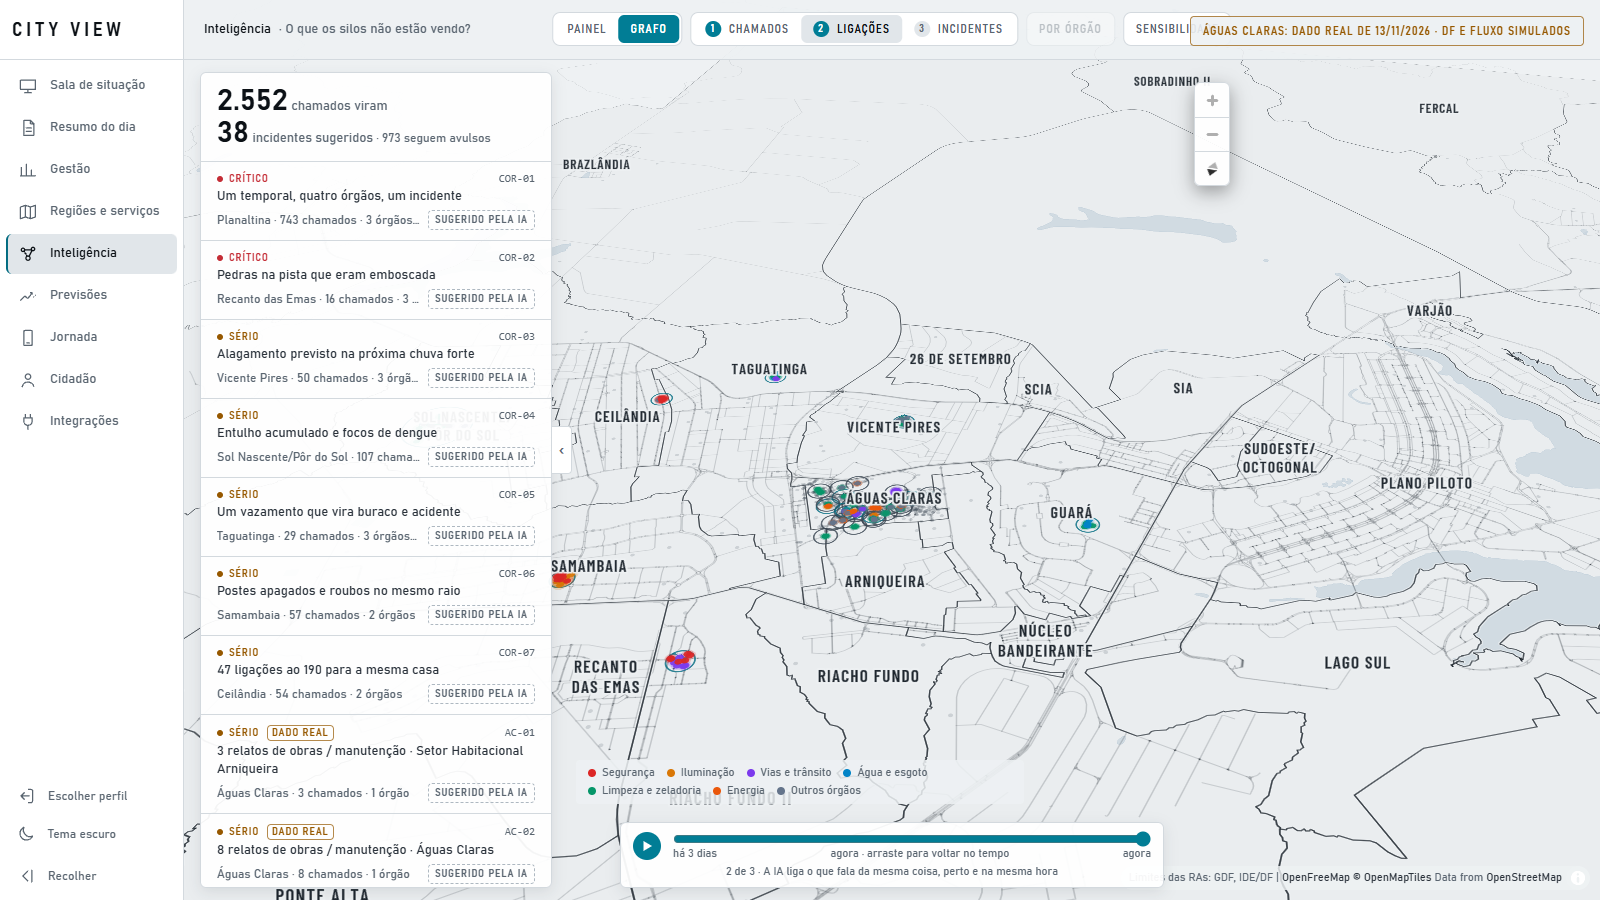
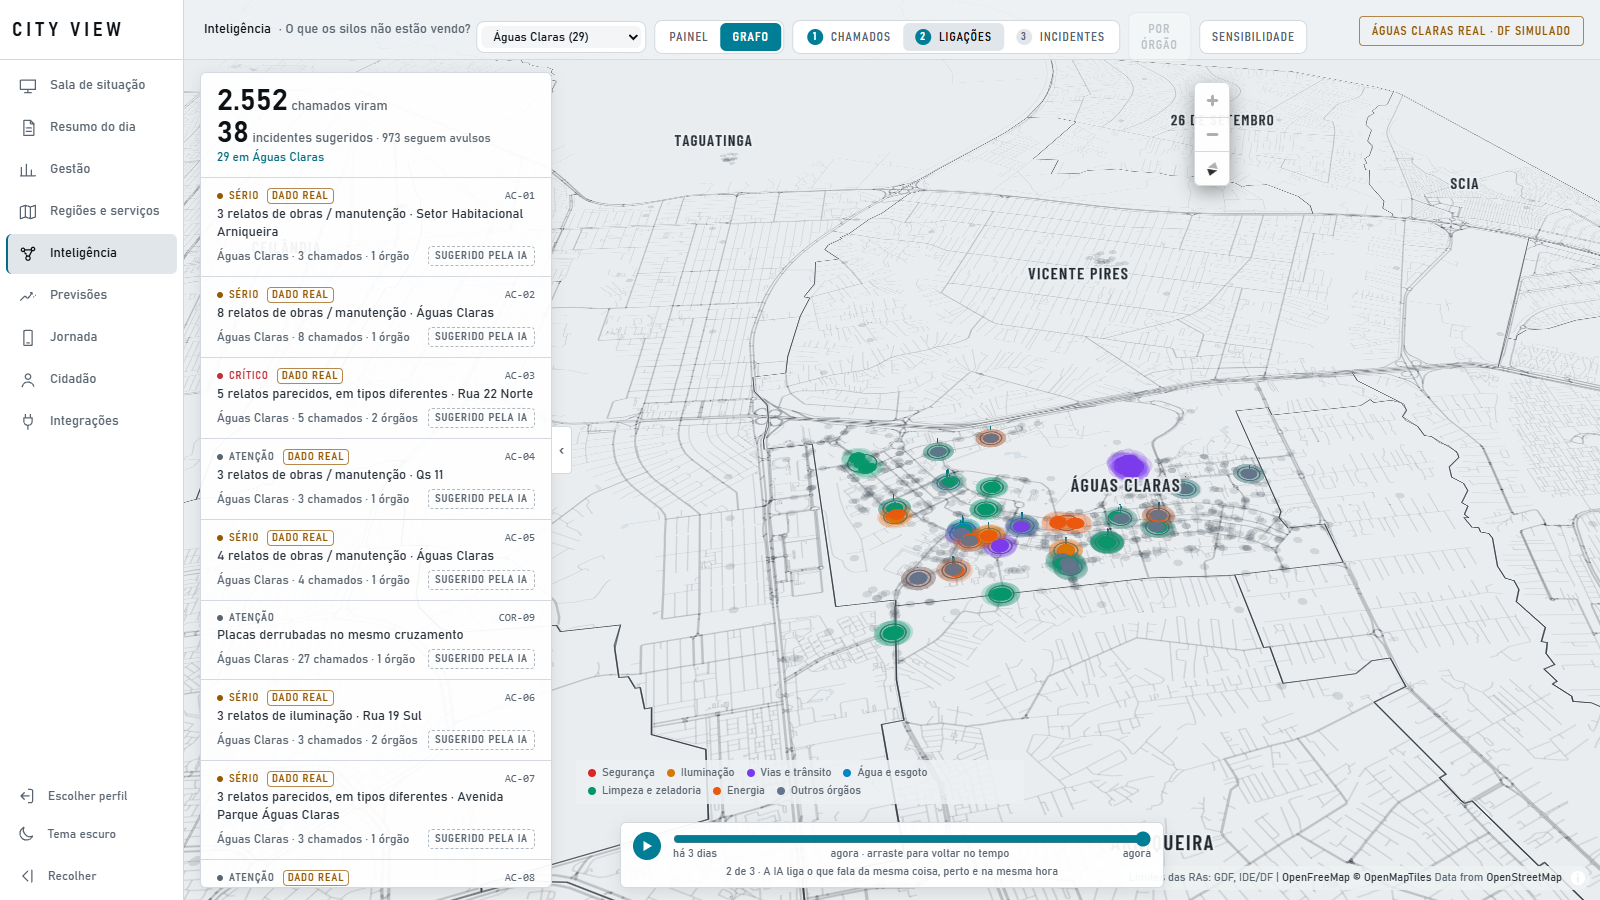
Demo: seletor de região na Inteligência
No alto da tela, as regiões que têm insight, com a contagem. Escolher uma
(ou ?ra=aguas-claras) faz a fila, o painel e as setas olharem só para ela, e
o mapa voar até lá: as colunas passam à escala de bairro e os incidentes de
outras regiões saem de foco. 'Todo o DF' devolve a visão inteira.

O selo da Inteligência fica mais curto, para caber ao lado da barra.

diff --git a/demo-view/src/telas/inteligencia/TelaInteligencia.tsx b/demo-view/src/telas/inteligencia/TelaInteligencia.tsx
@@ -16,6 +16,7 @@ import { camadasDoGrafo, camadasVivas, chegadosAte, chegadosPorIncidente, COR_DA
 import { BarraDoTempo, HORAS_DA_BARRA } from './BarraDoTempo';
 import { Mapa } from '../../mapa/Mapa';
 import { type Destino, reduzMovimento } from '../../mapa/vista';
+import { REGIAO_POR_ID, REGIOES } from '../../dominio/ras';
 import { parametrosDoHash } from '../../navegacao';
 import { Painel } from '../../ui/Painel';
 import { useTema } from '../../ui/tema';
@@ -58,6 +59,28 @@ export function TelaInteligencia() {
   const [porOrgao, setPorOrgao] = useState(false);
   const [ajustes, setAjustes] = useState(false);
   const [filaAberta, setFilaAberta] = useState(true);
+  // O seletor de região: a fila, o painel e o mapa passam a olhar só para ela. `?ra=aguas-claras` abre já escolhida.
+  const [ra, setRa] = useState<string | null>(() => {
+    const pedida = parametrosDoHash().get('ra');
+    return pedida && REGIAO_POR_ID[pedida] ? pedida : null;
+  });
+  // As regiões que têm algum insight, com a contagem, em ordem alfabética.
+  const regioesComInsight = useMemo(() => {
+    const conta = new Map<string, number>();
+    for (const i of resultado.incidentes) if (i.raId) conta.set(i.raId, (conta.get(i.raId) ?? 0) + 1);
+    return REGIOES.filter((r) => conta.has(r.id))
+      .map((r) => ({ id: r.id, nome: r.nome, insights: conta.get(r.id)! }))
+      .sort((a, b) => a.nome.localeCompare(b.nome, 'pt-BR'));
+  }, [resultado]);
+  // Para onde o mapa volta quando nada está aberto: a região escolhida, ou o DF.
+  const casa = useMemo((): Destino => (ra ? { tipo: 'ra', ra } : DF), [ra]);
+  const mudarRa = (nova: string | null) => {
+    setRa(nova);
+    // O insight aberto pode ser de outra região: fecha, e o mapa vai para a região.
+    setAberto(-1);
+    setPorOrgao(false);
+    voar(nova ? { tipo: 'ra', ra: nova } : DF);
+  };
   const inc = aberto >= 0 ? resultado.incidentes[aberto] : undefined;
 
   const descartados = useMemo(() => new Set(resultado.incidentes.flatMap((i, k) => (decisaoDe(decisoes, i.codigo).situacao === 'descartado' ? [k] : []))), [resultado, decisoes]);
@@ -139,7 +162,15 @@ export function TelaInteligencia() {
   // Com um insight aberto, a conta é a dele; sem, a da cidade.
   const chegaramAteAqui = useMemo(() => (aberto >= 0 ? (chegadosPorIncidente(base, resultado, corte)[aberto]?.chamados ?? 0) : chegadosAte(base, corte)), [base, resultado, corte, aberto]);
 
-  const estado = useMemo(() => ({ base, resultado, etapa, aberto, descartados, corte, pequenos }), [base, resultado, etapa, aberto, descartados, corte, pequenos, tema]);
+  // Com uma região escolhida, o mapa está de perto: todas as colunas ficam na escala de bairro,
+  // e os incidentes de outras regiões saem de foco (no mapa, como os descartados: sem coluna, pontos neutros).
+  const noMapa = useMemo(() => {
+    if (!ra) return { descartados, pequenos };
+    const todos = new Set(resultado.incidentes.map((_, k) => k));
+    const fora = resultado.incidentes.flatMap((i, k) => (i.raId === ra ? [] : [k]));
+    return { descartados: new Set([...descartados, ...fora]), pequenos: todos };
+  }, [ra, resultado, descartados, pequenos]);
+  const estado = useMemo(() => ({ base, resultado, etapa, aberto, descartados: noMapa.descartados, corte, pequenos: noMapa.pequenos }), [base, resultado, etapa, aberto, noMapa, corte, tema]);
   const camadas = useMemo(() => camadasDoGrafo(estado), [estado]);
   const animadas = useCallback((t: number) => camadasVivas(estado, ondas, t), [estado, ondas]);
 
@@ -156,17 +187,18 @@ export function TelaInteligencia() {
   useEffect(() => {
     if (abertoAntes.current === aberto) return;
     const primeira = abertoAntes.current === null;
-    if (primeira && aberto < 0) {
+    // Quem chega com a região no endereço já vê o mapa nela.
+    if (primeira && aberto < 0 && !ra) {
       abertoAntes.current = aberto;
       return;
     }
     // Depois que as margens mudam (o painel do insight abre ou fecha). Na abertura, depois do mapa carregar.
     const t = setTimeout(() => {
       abertoAntes.current = aberto;
-      voar(inc ? { tipo: 'vista', vista: { centro: inc.centro, zoom: zoomDoIncidente(inc), inclinacao: 55, rotacao: -14 } } : DF);
+      voar(inc ? { tipo: 'vista', vista: { centro: inc.centro, zoom: zoomDoIncidente(inc), inclinacao: 55, rotacao: -14 } } : casa);
     }, primeira ? 3200 : 0);
     return () => clearTimeout(t);
-  }, [aberto, inc, voar]);
+  }, [aberto, inc, voar, casa]);
 
   const abrir = useCallback((k: number) => setAberto((a) => (a === k ? a : k)), []);
   const fechar = useCallback(() => {
@@ -196,8 +228,10 @@ export function TelaInteligencia() {
   const aoDesfazer = () => inc && desfazer(inc.codigo, Date.now());
 
   // ------------------------------------------------ teclas
-  const atalhos = useRef({ aberto, total: resultado.incidentes.length, aoConfirmar, fechar, alternarTempo, vista });
-  atalhos.current = { aberto, total: resultado.incidentes.length, aoConfirmar, fechar, alternarTempo, vista };
+  // As setas andam só pelos insights da região escolhida.
+  const daRegiao = useMemo(() => resultado.incidentes.flatMap((i, k) => (ra === null || i.raId === ra ? [k] : [])), [resultado, ra]);
+  const atalhos = useRef({ aberto, daRegiao, aoConfirmar, fechar, alternarTempo, vista });
+  atalhos.current = { aberto, daRegiao, aoConfirmar, fechar, alternarTempo, vista };
   useEffect(() => {
     const tecla = (e: KeyboardEvent) => {
       if (e.target instanceof HTMLInputElement || e.target instanceof HTMLSelectElement || e.metaKey || e.ctrlKey || e.altKey) return;
@@ -210,10 +244,14 @@ export function TelaInteligencia() {
       else if (e.key.toLowerCase() === 'g') setVista('grafo');
       else if (e.key === 'ArrowDown') {
         e.preventDefault();
-        setAberto(Math.min(a.total - 1, a.aberto + 1));
+        const p = a.daRegiao.indexOf(a.aberto);
+        const proximo = a.daRegiao[Math.min(a.daRegiao.length - 1, p + 1)];
+        if (proximo !== undefined) setAberto(proximo);
       } else if (e.key === 'ArrowUp') {
         e.preventDefault();
-        setAberto(Math.max(0, a.aberto - 1));
+        const p = a.daRegiao.indexOf(a.aberto);
+        const anterior = a.daRegiao[Math.max(0, p - 1)];
+        if (anterior !== undefined) setAberto(anterior);
       } else if (e.key === 'Enter' && a.aberto >= 0 && !(e.target instanceof HTMLButtonElement)) a.aoConfirmar();
       else if (e.key === 'Escape') a.fechar();
     };
@@ -226,11 +264,21 @@ export function TelaInteligencia() {
       {vista === 'grafo' ? (
         <Mapa margens={margens} camadas={camadas} animadas={animadas} alvo={alvo} semImagem dicaDasRas={false} clicaveis={CLICAVEIS} aoClicarObjeto={aoClicarObjeto} />
       ) : (
-        <PainelDeInsights resultado={resultado} resumo={resumo} estado={estadoComum} decisaoDe={(c) => decisaoDe(decisoes, c)} aberto={aberto} aoAbrir={abrir} comInsight={Boolean(inc)} />
+        <PainelDeInsights resultado={resultado} resumo={resumo} estado={estadoComum} ra={ra} decisaoDe={(c) => decisaoDe(decisoes, c)} aberto={aberto} aoAbrir={abrir} comInsight={Boolean(inc)} />
       )}
 
       {/* No alto: painel ou grafo e, no grafo, as três etapas. */}
       <div className="absolute top-3 left-1/2 z-20 hidden -translate-x-1/2 items-center gap-2 lg:flex">
+        <label className="flex items-center rounded-lg border border-linha bg-painel p-1 text-rotulo text-texto-2" title="Região: a fila, o painel e o mapa olham só para ela">
+          <select aria-label="Região" value={ra ?? ''} onChange={(e) => mudarRa(e.target.value || null)} className={`max-w-40 rounded-md border-0 bg-poco px-2 py-1 text-rotulo ${ra ? 'text-tinta' : 'text-texto'}`}>
+            <option value="">Todo o DF ({resultado.incidentes.length})</option>
+            {regioesComInsight.map((r) => (
+              <option key={r.id} value={r.id}>
+                {r.nome} ({r.insights})
+              </option>
+            ))}
+          </select>
+        </label>
         <div role="group" aria-label="Como ver" className="flex rounded-lg border border-linha bg-painel p-0.5">
           {(['painel', 'grafo'] as const).map((v) => (
             <button key={v} type="button" aria-pressed={v === vista} onClick={() => setVista(v)} title={v === 'painel' ? 'Os insights em cartões (tecla P)' : 'Os chamados no mapa (tecla G)'} className={`condensado rounded-md px-3 py-1.5 text-rotulo ${v === vista ? 'bg-acento text-white' : 'text-texto-2 hover:text-tinta'}`}>
@@ -295,13 +343,13 @@ export function TelaInteligencia() {
         </div>
       )}
       <div className={`intel-coluna intel-esquerda ${filaAberta ? '' : 'intel-recolhida'} ${vista === 'grafo' ? '' : 'hidden!'}`}>
-        <Fila resultado={resultado} aberto={aberto} decisaoDe={(c) => decisaoDe(decisoes, c)} aoAbrir={abrir} />
+        <Fila resultado={resultado} ra={ra} aberto={aberto} decisaoDe={(c) => decisaoDe(decisoes, c)} aoAbrir={abrir} />
       </div>
       <button
         type="button"
         onClick={() => {
           setFilaAberta((v) => !v);
-          setTimeout(() => !inc && voar(DF), 0);
+          setTimeout(() => !inc && voar(casa), 0);
         }}
         aria-label={filaAberta ? 'Recolher a fila de insights' : 'Mostrar a fila de insights'}
         className={`absolute top-1/2 z-20 hidden h-12 w-5 -translate-y-1/2 place-items-center rounded-r border border-l-0 border-linha bg-painel text-texto-2 hover:text-tinta ${vista === 'grafo' ? 'lg:grid' : ''} ${filaAberta ? 'left-[23rem]' : 'left-0'}`}

diff --git a/demo-view/src/telas/inteligencia/Painel.tsx b/demo-view/src/telas/inteligencia/Painel.tsx
@@ -185,7 +185,9 @@ function AguasClarasEmNumeros() {
 
 type Aba = 'insights' | 'andamento' | 'registro';
 
-export function PainelDeInsights({ resultado, resumo, estado, decisaoDe, aberto, aoAbrir, comInsight }: {
+export function PainelDeInsights({ resultado, resumo, estado, ra = null, decisaoDe, aberto, aoAbrir, comInsight }: {
+  /** A região escolhida no seletor do alto: a grade mostra só os insights dela. */
+  ra?: string | null;
   resultado: Resultado;
   resumo: Resumo;
   /** O estado comum: o andamento de cada incidente confirmado e o registro. */
@@ -215,7 +217,7 @@ export function PainelDeInsights({ resultado, resumo, estado, decisaoDe, aberto,
     { id: 'registro', nome: `Registro · ${estado.registro.length}` },
   ];
   const opcoes = useMemo(() => opcoesDeFiltro(resultado.incidentes), [resultado]);
-  const visiveis = useMemo(() => filtrarInsights(resultado.incidentes, filtro).filter((x) => origem === null || ehReal(x.inc) === (origem === 'real')), [resultado, filtro, origem]);
+  const visiveis = useMemo(() => filtrarInsights(resultado.incidentes, filtro).filter((x) => (origem === null || ehReal(x.inc) === (origem === 'real')) && (ra === null || x.inc.raId === ra)), [resultado, filtro, origem, ra]);
   const mudar = <K extends keyof FiltroDeInsights>(k: K, v: FiltroDeInsights[K]) => setFiltro((f) => ({ ...f, [k]: f[k] === v ? null : v }));
 
   return (
@@ -284,6 +286,7 @@ export function PainelDeInsights({ resultado, resumo, estado, decisaoDe, aberto,
         </label>
         <span className="text-rotulo text-texto-2">
           {visiveis.length} de {resultado.incidentes.length}
+          {ra && REGIAO_POR_ID[ra] ? ` · só ${REGIAO_POR_ID[ra]!.nome}` : ''}
         </span>
       </div>
       <LegendaDasAreas orgaos={opcoes.orgaos} />

diff --git a/demo-view/src/telas/inteligencia/partes.tsx b/demo-view/src/telas/inteligencia/partes.tsx
@@ -80,13 +80,16 @@ const Rotulo = ({ children }: { children: ReactNode }) => <p className="condensa
 
 // ---------------------------------------------------------------- fila
 
-export function Fila({ resultado, aberto, decisaoDe, aoAbrir }: {
+export function Fila({ resultado, ra = null, aberto, decisaoDe, aoAbrir }: {
   resultado: Resultado;
+  /** A região escolhida no seletor: a fila mostra só os insights dela. */
+  ra?: string | null;
   aberto: number;
   decisaoDe: (codigo: string) => Decisao;
   aoAbrir: (k: number) => void;
 }) {
   const { incidentes, total, avulsos } = resultado;
+  const daRegiao = incidentes.filter((i) => ra === null || i.raId === ra);
   // Quem anda pela fila com as setas não perde o item de vista.
   const ativoRef = useRef<HTMLButtonElement>(null);
   useEffect(() => {
@@ -102,9 +105,13 @@ export function Fila({ resultado, aberto, decisaoDe, aoAbrir }: {
           <span className="text-valor leading-8 font-semibold text-tinta tabular-nums">{incidentes.length}</span> incidentes sugeridos
           <span className="text-rotulo"> · {n(avulsos)} seguem avulsos</span>
         </p>
+        <p className={`text-rotulo text-acento-claro ${ra ? '' : 'hidden'}`}>
+          {daRegiao.length} em {(ra && REGIAO_POR_ID[ra]?.nome) || ''}
+        </p>
       </header>
       <ol className="min-h-0 flex-1 overflow-y-auto" aria-label="Insights, do mais urgente ao menos">
         {incidentes.map((inc, k) => {
+          if (ra !== null && inc.raId !== ra) return null;
           const ativo = k === aberto;
           return (
             <li key={inc.codigo}>

diff --git a/demo-view/src/App.tsx b/demo-view/src/App.tsx
@@ -47,7 +47,7 @@ export function App() {
   const [aberta, setAberta] = useState(() => window.innerWidth >= 1536);
   const atual = TELAS.find((t) => t.id === tela)!;
   // Na Inteligência há dado real junto do simulado: o selo diz qual é qual.
-  const selo = tela === 'inteligencia' ? 'Águas Claras: dado real · DF e fluxo simulados' : undefined;
+  const selo = tela === 'inteligencia' ? 'Águas Claras real · DF simulado' : undefined;
   // Quem chega pela raiz, sem ter escolhido, vê a entrada. Um endereço de tela abre direto, em qualquer perfil.
   const { perfil } = usePerfil();
   const semEndereco = !/^#\/?\w/.test(window.location.hash) && !new URLSearchParams(window.location.search).has('tela');

diff --git a/demo-view/README.md b/demo-view/README.md
@@ -408,6 +408,17 @@ tinta vai para o que foi agrupado (`mapa/camadas/grafo.ts`):
 
 Testes: 373.
 
+*Acréscimo de 13/11/2026 · seletor de região na Inteligência.* No alto da tela,
+ao lado de Painel/Grafo, um seletor com as regiões que têm insight e a contagem
+de cada uma ("Águas Claras (29)"); `?ra=aguas-claras` abre já escolhida.
+- **A fila, o painel e as setas** passam a olhar só para a região.
+- **O mapa** voa até ela e fica de perto: as colunas vão para a escala de
+  bairro, e os incidentes de outras regiões saem de foco (sem coluna, com os
+  pontos neutros).
+- "Todo o DF" devolve a visão inteira.
+- O selo da Inteligência ficou "Águas Claras real · DF simulado", para caber
+  ao lado da barra.
+
 **Previsões** (feita, aguardando revisão; proposta): as próximas duas semanas
 com a margem, o que está fora do normal agora, o que deve subir e cair, onde
 reforçar as equipes e o acerto do método, medido ao prever as duas últimas

diff --git a/docs/CV-DEM-001-roadmap-da-demo.md b/docs/CV-DEM-001-roadmap-da-demo.md
@@ -577,3 +577,10 @@ grandeza, o passo seguinte é juntar os avulsos em células, como o calor da sal
 
 Testes: 373.
 
+*Acréscimo de 13/11/2026 · seletor de região.* Pedido do Sammuel, depois de ver
+o grafo com as duas fontes: "podemos fazer um seletor de RA também". Entrou no
+alto da Inteligência e vale para o painel e para o grafo. Com uma região
+escolhida o mapa fica de perto, então todas as colunas passam à escala de
+bairro e o que é de outra região sai de foco. É também a resposta de curto
+prazo ao volume: de perto, olha-se uma região por vez.
+
